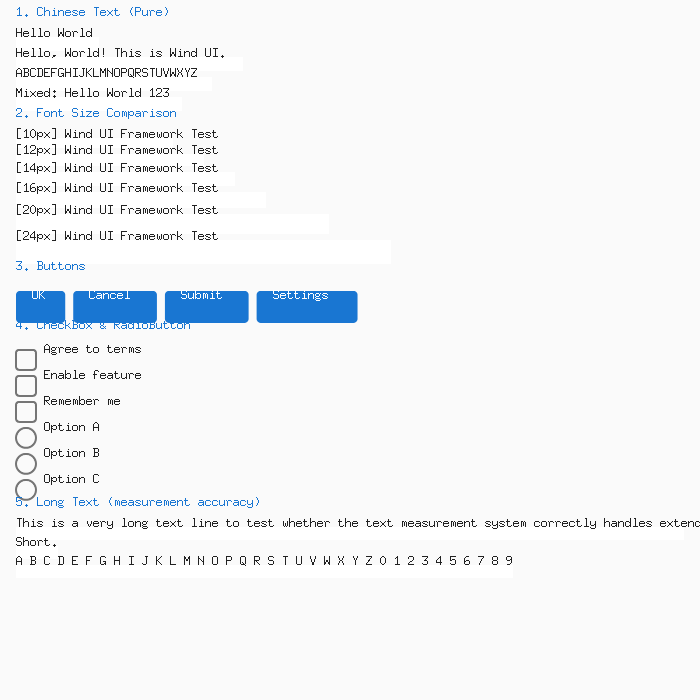
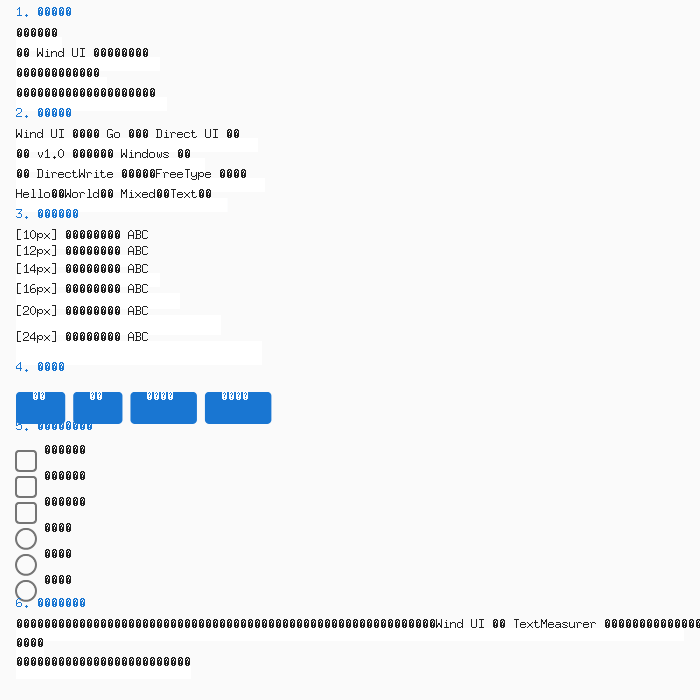
fix(example): add actual Chinese text content to chinese_text demo
Replace placeholder English text with real Chinese content including
pure Chinese, mixed Chinese-English, different font sizes, Chinese
button labels, checkbox/radio labels, and long text wrapping tests.

diff --git a/examples/chinese_text/main.go b/examples/chinese_text/main.go
@@ -116,32 +116,44 @@ func buildUI() *core.Node {
 	})
 	root.SetPainter(&bgPainter{})
 
-	// ====== Section 1: Pure Chinese text ======
-	addSectionTitle(root, "1. Chinese Text (Pure)")
+	// ====== Section 1: 纯中文文本 ======
+	addSectionTitle(root, "1. 纯中文文本")
 	chineseTexts := []string{
-		"Hello World",
-		"Hello, World! This is Wind UI.",
-		"ABCDEFGHIJKLMNOPQRSTUVWXYZ",
-		"Mixed: Hello World 123",
+		"你好，世界！",
+		"这是 Wind UI 轻量级界面框架。",
+		"春眠不觉晓，处处闻啼鸟。",
+		"天地玄黄，宇宙洪荒。日月盈昃，辰宿列张。",
 	}
 	for _, text := range chineseTexts {
 		addTextWithBg(root, text, 14, color.RGBA{R: 255, G: 255, B: 255, A: 220})
 	}
 
-	// ====== Section 2: Different font sizes ======
-	addSectionTitle(root, "2. Font Size Comparison")
+	// ====== Section 2: 中英文混排 ======
+	addSectionTitle(root, "2. 中英文混排")
+	mixedTexts := []string{
+		"Wind UI 是一个用 Go 编写的 Direct UI 框架",
+		"版本 v1.0 已发布，支持 Windows 平台",
+		"使用 DirectWrite 渲染中文，FreeType 作为后备",
+		"Hello你好World世界 Mixed混合Text文本",
+	}
+	for _, text := range mixedTexts {
+		addTextWithBg(root, text, 14, color.RGBA{R: 230, G: 240, B: 255, A: 200})
+	}
+
+	// ====== Section 3: 不同字号 ======
+	addSectionTitle(root, "3. 不同字号对比")
 	sizes := []float64{10, 12, 14, 16, 20, 24}
 	for _, sz := range sizes {
-		label := fmt.Sprintf("[%.0fpx] Wind UI Framework Test", sz)
+		label := fmt.Sprintf("[%.0fpx] 中文字体渲染测试 ABC", sz)
 		tv := widget.NewTextView(label)
 		tv.Node().GetStyle().FontSize = sz
 		tv.Node().GetStyle().TextColor = color.RGBA{R: 33, G: 33, B: 33, A: 255}
-		tv.Node().GetStyle().BackgroundColor = color.RGBA{R: 230, G: 240, B: 255, A: 200}
+		tv.Node().GetStyle().BackgroundColor = color.RGBA{R: 255, G: 245, B: 230, A: 200}
 		root.AddChild(tv.Node())
 	}
 
-	// ====== Section 3: Buttons with text ======
-	addSectionTitle(root, "3. Buttons")
+	// ====== Section 4: 中文按钮和控件 ======
+	addSectionTitle(root, "4. 中文按钮")
 	btnRow := core.NewNode("btnRow")
 	btnRow.SetLayout(&layout.LinearLayout{Orientation: layout.Horizontal, Spacing: 8})
 	btnRow.SetStyle(&core.Style{
@@ -150,28 +162,28 @@ func buildUI() *core.Node {
 	})
 	root.AddChild(btnRow)
 
-	for _, label := range []string{"OK", "Cancel", "Submit", "Settings"} {
+	for _, label := range []string{"确定", "取消", "提交表单", "系统设置"} {
 		btn := widget.NewButton(label, nil)
 		btnRow.AddChild(btn.Node())
 	}
 
-	// ====== Section 4: CheckBox / RadioButton ======
-	addSectionTitle(root, "4. CheckBox & RadioButton")
-	for _, label := range []string{"Agree to terms", "Enable feature", "Remember me"} {
+	// ====== Section 5: 中文 CheckBox / RadioButton ======
+	addSectionTitle(root, "5. 复选框与单选按钮")
+	for _, label := range []string{"同意用户协议", "启用深色模式", "记住登录状态"} {
 		cb := widget.NewCheckBox(label)
 		root.AddChild(cb.Node())
 	}
-	for _, label := range []string{"Option A", "Option B", "Option C"} {
+	for _, label := range []string{"小号字体", "中号字体", "大号字体"} {
 		rb := widget.NewRadioButton(label)
 		root.AddChild(rb.Node())
 	}
 
-	// ====== Section 5: Long text / wrapping test ======
-	addSectionTitle(root, "5. Long Text (measurement accuracy)")
+	// ====== Section 6: 长文本换行测试 ======
+	addSectionTitle(root, "6. 长文本换行测试")
 	longTexts := []string{
-		"This is a very long text line to test whether the text measurement system correctly handles extended ASCII content without overflow or truncation issues in the Wind UI framework.",
-		"Short.",
-		"A B C D E F G H I J K L M N O P Q R S T U V W X Y Z 0 1 2 3 4 5 6 7 8 9",
+		"这是一段非常长的中文文本，用于测试文本测量系统是否能正确处理超长中文内容的宽度计算，确保不会出现文字溢出或被截断的问题。Wind UI 使用 TextMeasurer 接口在布局阶段获取精确的文本尺寸。",
+		"短文本。",
+		"标点符号测试：，。！？；：【】《》（）——……、～",
 	}
 	for _, text := range longTexts {
 		addTextWithBg(root, text, 13, color.RGBA{R: 255, G: 255, B: 240, A: 220})
